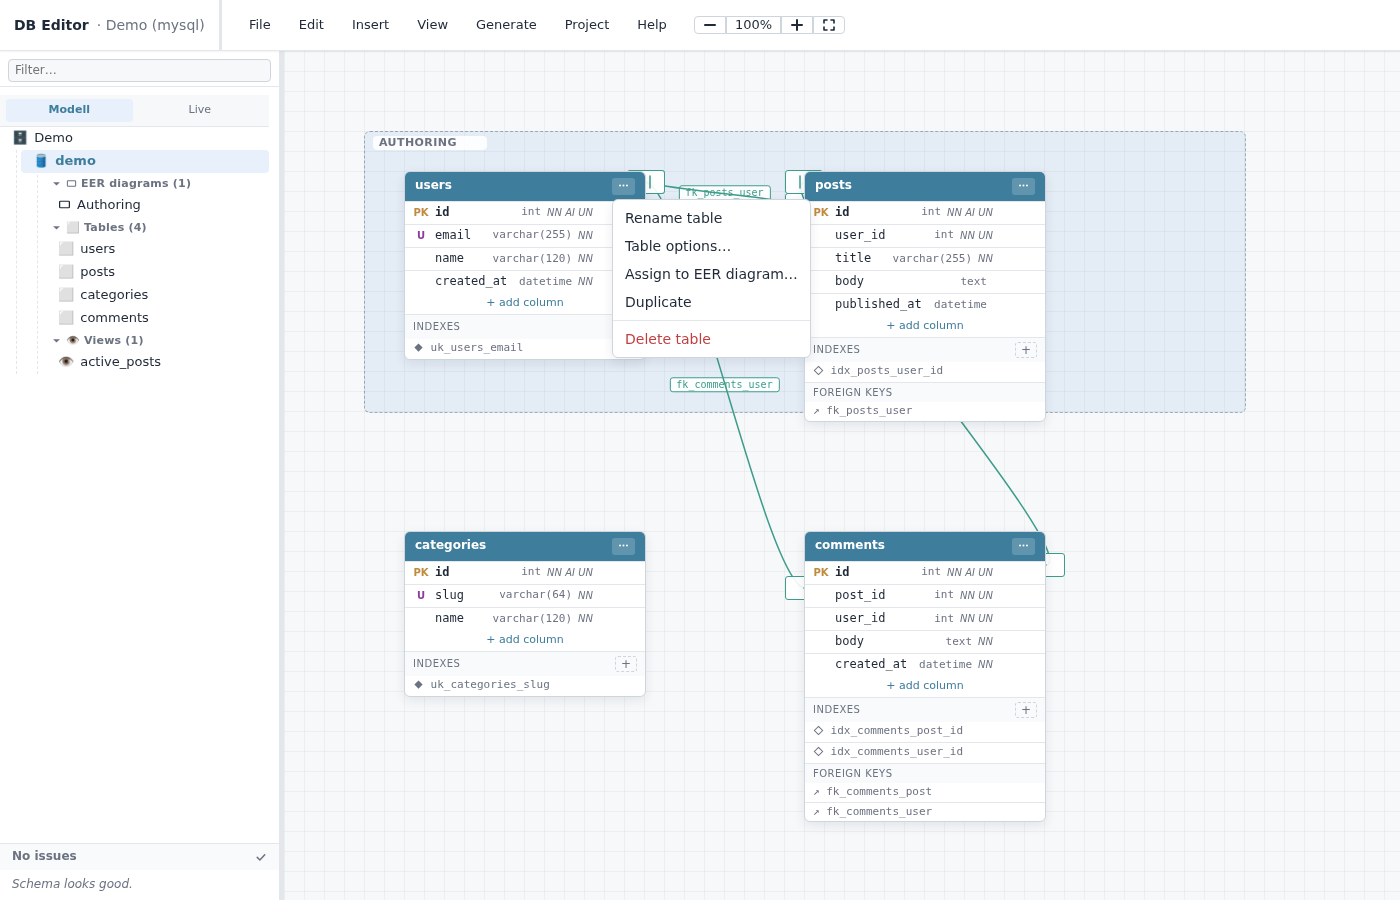
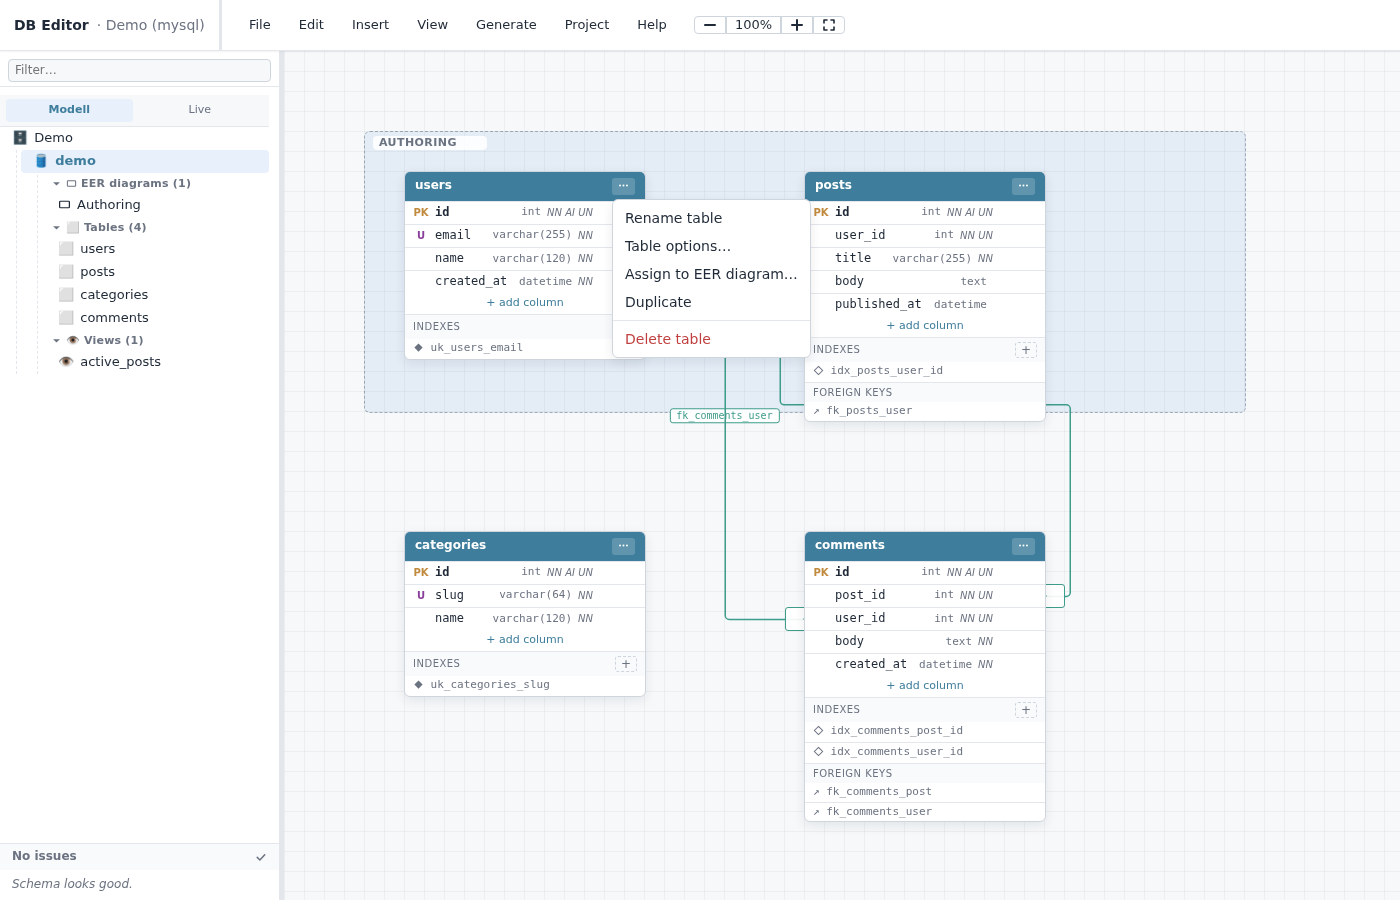
Fix: FK lines now attach at the correct column rows
Two root causes were combining to make foreign-key lines look like
they "entered the table header" instead of the specific column row:

1. **`.db-table-columns` was `position: relative`** (needed by the
   column-drag drop indicator) — so it became the `offsetParent`
   for every `.db-table-column` row. The anchor math
   `rowCenter / cardH` was computing `offsetTop` relative to that
   wrapper, not the card, so id-row landed at yRatio ≈ 0.06
   (top of card / header level) instead of ≈ 0.20 (actual row).
   Fix: replace offsetTop/offsetHeight arithmetic with
   `getBoundingClientRect` deltas in both `DbTable.getColumnAnchor`
   and the shared `anchorForRow` helper.

2. **Default connector was `Bezier`** — even with correct anchor y,
   the curve smoothing made the line visually "loop over" the card
   header on its way out. Switched to `Flowchart` (orthogonal
   routing) with stub=24 + cornerRadius=4 so lines emerge straight
   horizontally from each column row, bend at right angles, and
   land straight into the destination column row — making column-
   to-column pairings unambiguous at a glance (dbdiagram.io style).

Bonus: row-highlight on FK hover. The connection now carries
`srcColumnUnid`/`dstColumnUnid` in its `data`, and a `mouseover` /
`mouseout` pair toggles `.db-table-column--fk-hover` on the two
paired rows. Composite FKs (multiple parallel lines between the
same tables) light up the correct pair per line. New CSS class
[…]

Changed region(s): [[0.4607, 0.4044, 0.5529, 0.4978], [0.4607, 0.1867, 0.5836, 0.2489], [0.5221, 0.6844, 0.5529, 0.7156]]

diff --git a/DbEditor/jsPlumbInstance.ts b/DbEditor/jsPlumbInstance.ts
@@ -14,16 +14,25 @@ const anchorForRow = (rowEl: Element, side: 'left' | 'right' = 'right'): [number
     const row = rowEl as HTMLElement;
     const card = row.closest('.db-table') as HTMLElement | null;
     if (!card) {return null;}
-    const cardH = card.offsetHeight || 1;
     /*
      * If the matched element is the grip-span, walk up one level to the
-     * `.db-table-column` row that holds its `offsetTop`. Otherwise the
-     * matched element already IS the row.
+     * `.db-table-column` row whose rect is the right one to measure.
      */
     const positioningRow = row.classList.contains('db-table-column-grip')
         ? (row.closest('.db-table-column') as HTMLElement | null) ?? row
         : row;
-    const rowCenter = positioningRow.offsetTop + (positioningRow.offsetHeight / 2);
+    /*
+     * Use viewport rects rather than offsetTop/offsetHeight: the
+     * `.db-table-columns` wrapper is `position: relative` (to host
+     * the drag-reorder drop indicator), which makes IT the row's
+     * `offsetParent` — so `offsetTop` would measure inside the
+     * wrapper, not from the card top. The viewport-rect delta
+     * gives the actual row-center-within-the-card.
+     */
+    const cardRect = card.getBoundingClientRect();
+    const rowRect = positioningRow.getBoundingClientRect();
+    const cardH = cardRect.height || 1;
+    const rowCenter = (rowRect.top - cardRect.top) + (rowRect.height / 2);
     const yRatio = Math.max(0, Math.min(1, rowCenter / cardH));
     const x = side === 'right' ? 1 : 0;
     const dx = side === 'right' ? 1 : -1;
@@ -50,9 +59,26 @@ export const getJsPlumbInstance = (): BrowserJsPlumbInstance => {
      * accurate in the unscaled coordinate system.
      */
     const container = (document.getElementById('dbgrid-zoom') ?? document.getElementById('dbgrid')) as HTMLElement;
+    /*
+     * Flowchart connector (orthogonal right-angle routing) instead of
+     * Bezier. Reason: with bezier curves the line "curves into" the
+     * destination card from above, visually appearing to enter the
+     * header area regardless of which column row is the actual
+     * anchor target. Orthogonal lines come straight out of the
+     * column row horizontally, bend once or twice at 90°, and land
+     * straight back on the destination column row — so the user
+     * can trace exactly which column connects to which, like
+     * dbdiagram.io / Workbench's relational notation.
+     *
+     * `stub: 24` is the horizontal segment length before the first
+     * bend; keeps short connections from collapsing into the cards.
+     * `cornerRadius: 4` softens the corners just enough to avoid
+     * a sharp-edged technical look without losing the "I see the
+     * right-angle" affordance.
+     */
     _instance = newInstance({
         container: container,
-        connector: {type: 'Bezier', options: {curviness: 40}},
+        connector: {type: 'Flowchart', options: {stub: 24, cornerRadius: 4, alwaysRespectStubs: true}},
         paintStyle: {strokeWidth: 1.5, stroke: '#3e9c8a'} as Record<string, unknown>,
         endpoint: 'Blank',
         anchors: ['Right', 'Left'],

diff --git a/DbEditor/DbEditor.ts b/DbEditor/DbEditor.ts
@@ -1316,15 +1316,56 @@ export class DbEditor {
                 detachable: false
             } as any);
             if (conn) {
-                (conn as any).data = { fkUnid: fk.unid, tableUnid: srcTable.unid, fkName: fk.name };
+                (conn as any).data = {
+                    fkUnid: fk.unid,
+                    tableUnid: srcTable.unid,
+                    fkName: fk.name,
+                    /*
+                     * Carry the column unids on each connection so
+                     * the hover handler can highlight the two paired
+                     * rows visually — addresses the "I want to see
+                     * which columns are connected" affordance the
+                     * straight-line routing already supports.
+                     */
+                    srcColumnUnid: srcCol.unid,
+                    dstColumnUnid: dstCol.unid
+                };
                 this._fkConnections.push({
                     srcTableUnid: srcTable.unid,
                     dstTableUnid: dstTable.unid,
                     fkUnid: fk.unid,
                     conn: conn
                 });
+                this._wireFkHoverHighlight(conn, srcTable.unid, srcCol.unid, dstTable.unid, dstCol.unid);
             }
         });
+    }
+
+    /**
+     * Add row-highlight on FK hover. When the user mouses over a
+     * connection line, the two paired column rows light up so the
+     * source ↔ destination pairing is unambiguous at a glance —
+     * even on composite FKs where multiple parallel lines run
+     * between the same two tables.
+     */
+    private _wireFkHoverHighlight(
+        conn: any,
+        srcTableUnid: string,
+        srcColumnUnid: string,
+        dstTableUnid: string,
+        dstColumnUnid: string
+    ): void {
+        const find = (tableUnid: string, columnUnid: string): HTMLElement | null => {
+            const card = this._tables.get(tableUnid)?.element;
+            return (card?.querySelector(`.db-table-column[data-column-unid="${columnUnid}"]`) as HTMLElement | null) ?? null;
+        };
+        const toggle = (on: boolean): void => {
+            for (const row of [find(srcTableUnid, srcColumnUnid), find(dstTableUnid, dstColumnUnid)]) {
+                row?.classList.toggle('db-table-column--fk-hover', on);
+            }
+        };
+        conn.bind('mouseover', () => toggle(true));
+        conn.bind('mouseout', () => toggle(false));
     }
 
     /**

diff --git a/DbEditor/Table/DbTable.ts b/DbEditor/Table/DbTable.ts
@@ -44,14 +44,23 @@ export class DbTable {
      * given column row's vertical center on the requested side of the
      * card. Falls back to mid-height if the row isn't found yet (during
      * initial layout passes when the DOM hasn't been measured).
+     *
+     * Uses `getBoundingClientRect` instead of `offsetTop / offsetHeight`
+     * because the `.db-table-columns` wrapper carries `position:
+     * relative` (for the drag-reorder drop indicator), which makes IT
+     * the row's `offsetParent` — so `offsetTop` measures from inside
+     * the columns wrapper, not from the card top. The relative-to-
+     * card delta from getBoundingClientRect sidesteps that.
      */
     public getColumnAnchor(columnUnid: string, side: 'left' | 'right'): [number, number, number, number] {
         const x = side === 'right' ? 1 : 0;
         const dx = side === 'right' ? 1 : -1;
         const row = this._el.querySelector(`.db-table-column[data-column-unid="${columnUnid}"]`) as HTMLElement | null;
-        const cardH = this._el.offsetHeight || 1;
+        const cardRect = this._el.getBoundingClientRect();
+        const cardH = cardRect.height || 1;
         if (!row) {return [x, 0.5, dx, 0];}
-        const rowCenter = row.offsetTop + (row.offsetHeight / 2);
+        const rowRect = row.getBoundingClientRect();
+        const rowCenter = (rowRect.top - cardRect.top) + (rowRect.height / 2);
         const yRatio = Math.max(0, Math.min(1, rowCenter / cardH));
         return [x, yRatio, dx, 0];
     }

diff --git a/main.css b/main.css
@@ -1252,6 +1252,11 @@ body {
 .db-table-column:hover {
   background-color: #fafbfd;
 }
+/* Lights up both ends of an FK pair while the connection line is hovered. */
+.db-table-column--fk-hover {
+  background-color: rgba(62, 156, 138, 0.18);
+  box-shadow: inset 2px 0 0 var(--c-fk, #3e9c8a), inset -2px 0 0 var(--c-fk, #3e9c8a);
+}
 .db-table-column.db-table-column--dragging {
   opacity: 0.4;
   background-color: var(--c-primary-soft);
